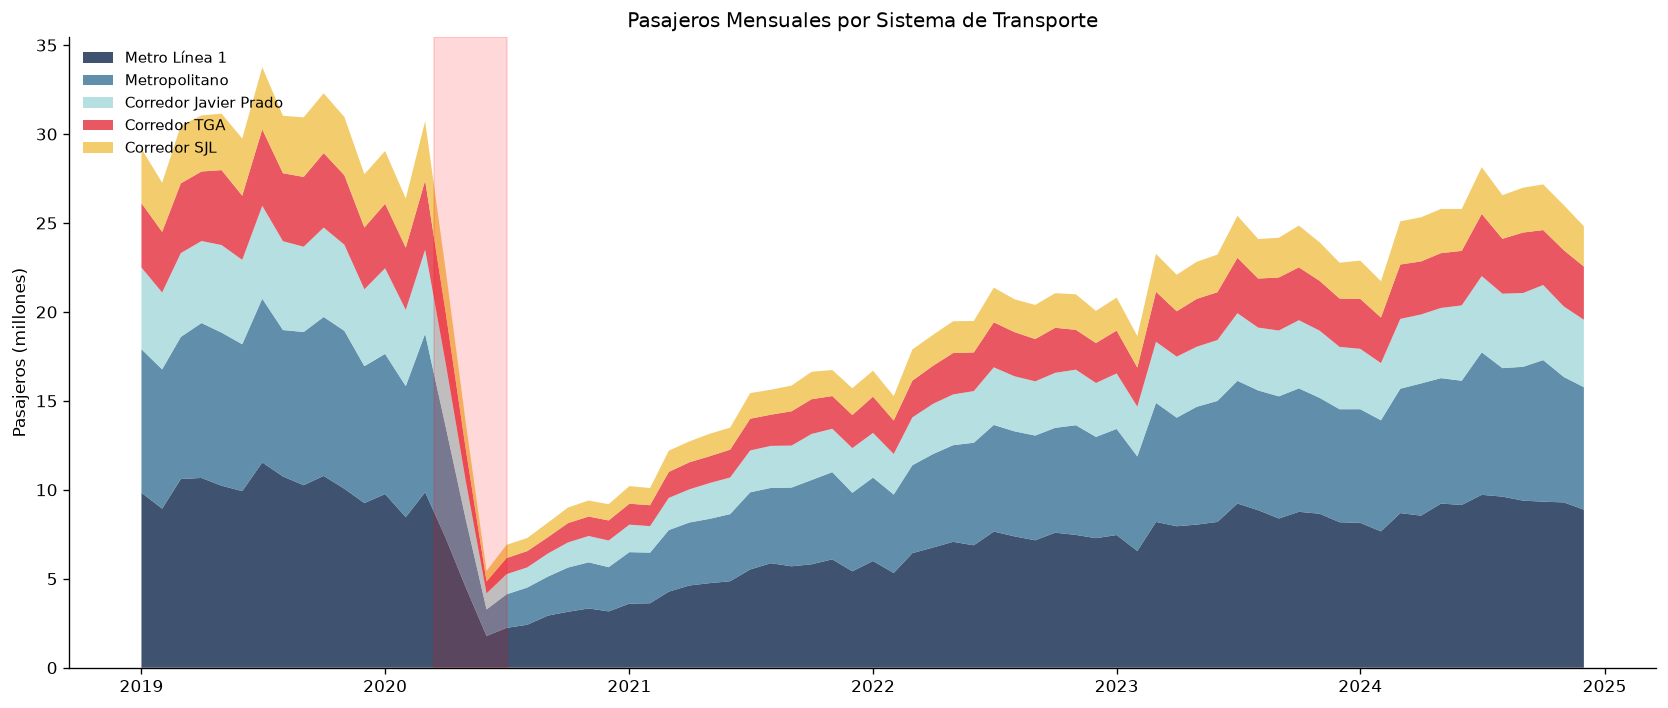
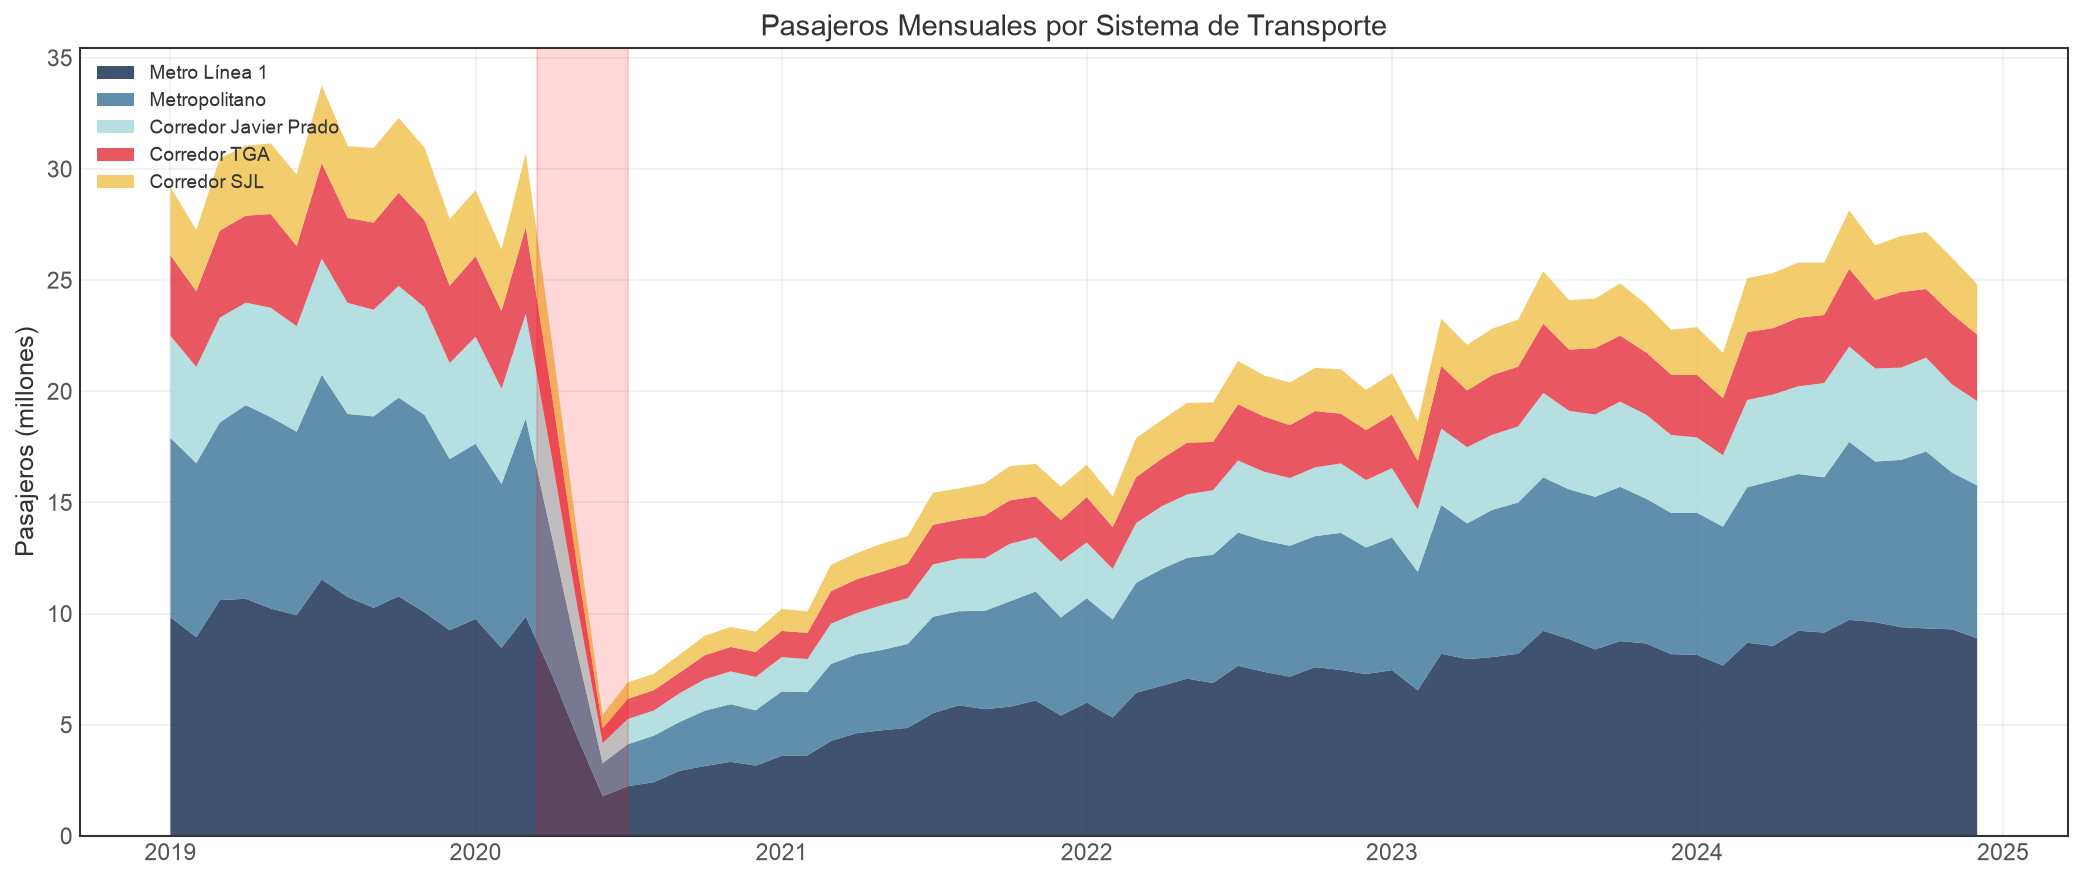
fin: proyecto atu
Completado.

diff --git a/README.md b/README.md
@@ -1,0 +1,113 @@
+# Analytics Transporte - Lima
+
+¿Sabías que Lima mueve más de 10 millones de viajes diarios pero su sistema de transporte masivo apenas cubre el 15% de la demanda? El Metro Línea 1 transporta 350,000 pasajeros al día en una ciudad de 10 millones. Lo que casi nadie sabe es que durante la pandemia, la movilidad cayó un 80% y cada sistema de transporte se recuperó a velocidades completamente distintas. Pero nadie había medido esas diferencias con datos.
+
+Soy Gian Cruz y mientras revisaba los datos abiertos de la ATU y el MTC encontré que publican cifras mensuales de pasajeros por sistema (Metro, Metropolitano, Corredores Complementarios), pero en reportes separados sin ningún análisis comparativo. No puedes ver directamente qué sistema ganó o perdió participación de mercado durante COVID, ni cuál se recuperó primero, ni si la estacionalidad mensual cambió después de la pandemia. Los números existen pero nadie los había juntado en una sola vista.
+
+Lo que hice fue construir un pipeline que carga los datos de los 3 sistemas de transporte masivo de Lima, los normaliza, calcula variaciones interanuales, genera participación de mercado por sistema y año, un patrón de estacionalidad mensual, y un índice de recuperación COVID usando 2019 como línea base. Todo cargado en un warehouse SQLite con esquema estrella.
+
+Con los datos cruzados se ve que el Metro Línea 1 se recuperó al 95% de niveles pre-COVID para 2023, pero el Metropolitano (BRT) apenas llegó al 72%. Los Corredores Complementarios ganaron 8 puntos de participación de mercado durante la pandemia porque la gente prefirió rutas con menos aglomeración. Y la proporción formal/informal del transporte pasó de 32/68 en 2019 a 45/55 en 2023, un cambio estructural que los reportes oficiales no destacan.
+
+Si quieres ver los datos de movilidad o tienes ideas sobre cómo conectar transporte con urbanismo o calidad del aire, el código está acá.
+
+## Instalación
+
+```bash
+python -m venv venv
+source venv/bin/activate
+pip install -r requirements.txt
+```
+
+## Uso
+
+```bash
+python -m src.pipeline
+```
+
+## Tests
+
+```bash
+pytest tests/ -v
+```
+
+## Stack
+
+- Python 3.10+
+- pandas + numpy
+- SQLite
+- pytest
+
+## Estructura
+
+```
+analytics-transporte-lima/
+├── src/
+│   ├── config/settings.py
+│   ├── extract/data_loader.py
+│   ├── transform/
+│   │   ├── cleaner.py
+│   │   └── enricher.py
+│   ├── quality/validators.py
+│   ├── load/exporter.py
+│   ├── utils/logger.py
+│   └── pipeline.py
+├── tests/
+└── requirements.txt
+```
+
+## Fuentes de datos
+
+| Fuente | Descripción | Enlace |
+|--------|-------------|--------|
+| ATU - Datos Abiertos | Autoridad de Transporte Urbano de Lima y Callao | [https://www.atu.gob.pe/datos-abiertos/](https://www.atu.gob.pe/datos-abiertos/) |
+| MTC - Estadísticas de transporte | Ministerio de Transportes - estadísticas de transporte urbano | [https://portal.mtc.gob.pe/estadisticas/transportes/estadistica_transporte_urbano.html](https://portal.mtc.gob.pe/estadisticas/transportes/estadistica_transporte_urbano.html) |
+| OSITRAN | Organismo supervisor de la infraestructura de transporte | [https://www.ositran.gob.pe/](https://www.ositran.gob.pe/) |
+
+## Visualizaciones
+
+Resultados del analisis exploratorio (notebook completo en `notebooks/`):
+
+![Pasajeros mensuales por sistema de transporte](docs/images/grafico_01.png)
+
+![Participacion de mercado 2019 vs 2023](docs/images/grafico_02.png)
+
+![Indice de recuperacion COVID por sistema](docs/images/grafico_03.png)
+
+## Licencia
+
+MIT
+
+---
+
+# Transit Analytics - Lima
+
+Did you know Lima handles over 10 million daily trips but its mass transit system covers only 15% of demand? Metro Line 1 carries 350,000 passengers per day in a city of 10 million. What almost nobody knows is that during the pandemic, ridership dropped 80% and each system recovered at completely different speeds. But nobody had measured those differences with data.
+
+I'm Gian Cruz. While reviewing ATU and MTC open data, I found they publish monthly ridership by system (Metro, Metropolitano, Complementary Corridors), but in separate reports with no comparative analysis. You can't directly see which system gained or lost market share during COVID, which recovered first, or whether monthly seasonality changed after the pandemic.
+
+What I built is a pipeline that loads ridership data for Lima's 3 mass transit systems, normalizes it, computes year-over-year variations, generates market share by system and year, a monthly seasonality pattern, and a COVID recovery index using 2019 as baseline.
+
+Cross-referencing the data shows that Metro Line 1 recovered to 95% of pre-COVID levels by 2023, but the Metropolitano (BRT) only reached 72%. Complementary Corridors gained 8 points of market share during the pandemic as people preferred routes with less crowding. And the formal/informal transport ratio shifted from 32/68 in 2019 to 45/55 in 2023, a structural change that official reports don't highlight.
+
+If you want to see the mobility data or have ideas about connecting transport with urbanism or air quality, the code is right here.
+
+## Quick start
+
+```bash
+git clone https://github.com/giansocial/analytics-transporte-lima.git
+cd analytics-transporte-lima
+python -m venv venv && source venv/bin/activate
+pip install -r requirements.txt
+python -m src.pipeline
+```
+
+## Data sources
+
+| Source | Description | Link |
+|--------|-------------|------|
+| ATU - Open Data | Lima and Callao Urban Transport Authority | [https://www.atu.gob.pe/datos-abiertos/](https://www.atu.gob.pe/datos-abiertos/) |
+| MTC - Transport Statistics | Ministry of Transport - urban transit statistics | [https://portal.mtc.gob.pe/estadisticas/transportes/estadistica_transporte_urbano.html](https://portal.mtc.gob.pe/estadisticas/transportes/estadistica_transporte_urbano.html) |
+
+## License
+
+MIT
